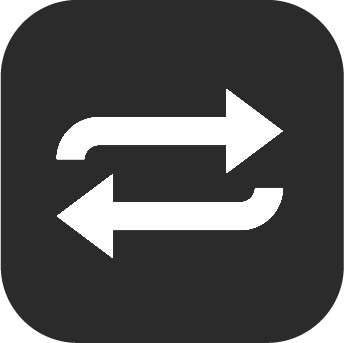
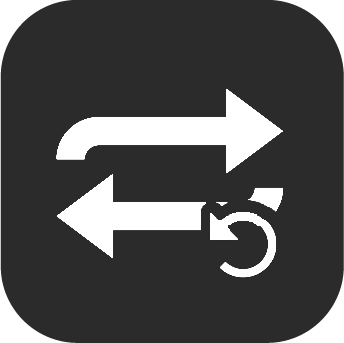
Improved track/playlist looping

Changed region(s): [[0.5814, 0.5831, 0.814, 0.8163]]

diff --git a/app/controls.js b/app/controls.js
@@ -8,7 +8,7 @@ function handleButton(id) {
 
 }
 
-window.addEventListener("playerbtnclick", function(data) {
+window.addEventListener("playerbtnclick", data => {
 
 	// alert("Pressed button: " + id);
 
@@ -39,13 +39,24 @@ window.addEventListener("playerbtnclick", function(data) {
       modal("playlist");
     break;
 
+    case "loop":
+
+      var loopButton = document.getElementById("loop");
+      loopState = ++loopState % 3;
+
+      switch (loopState) {
+        case 0: loopButton.src = "images/noloop.png"; break;
+        case 1: loopButton.src = "images/loop.png"; break;
+        case 2: loopButton.src = "images/loopone.png"; break;
+      }
+    break;
+
     case "shuffle":
       shuffle();
       displayPlaylist();
 
 		default:
 		break;
-		// TODO: add logic for shuffle
 	}
 });
 
@@ -116,36 +127,36 @@ function displayMetadata(songData) {
     document.getElementById("cover").innerHTML = "<div id='cover'></div>";
 }
 
-document.body.addEventListener('dragover', function(event) {
-    event.preventDefault();
+document.body.addEventListener('dragover', e => {
+    e.preventDefault();
 });
 
-document.body.addEventListener('dragleave', function() {
+document.body.addEventListener('dragleave', () => {
 });
 
-document.body.addEventListener('drop', async function(event) {
-	event.preventDefault();
+document.body.addEventListener('drop', async e => {
+	e.preventDefault();
 
-	var files = event.dataTransfer.files;
+	var files = e.dataTransfer.files;
 
 
-    for (let i = 0; i < files.length; i++) {
-      var f = files[i];
-      console.log(`${f.name} (${f.type}) ${f.size} B`);
+  for (let i = 0; i < files.length; i++) {
+    var f = files[i];
+    console.log(`${f.name} (${f.type}) ${f.size} B`);
 
-      if (f.type.startsWith("audio")) {
+    if (f.type.startsWith("audio")) {
       var songData = await generateSongData(f);
 
       addToPlaylist(songData);        
-      }
-
-
     }
 
-    console.log(playlist)
+
+  }
+
+  console.log(playlist)
     
-    if (!player.getAttribute("initialized"))
-      startPlaylist();
+  if (!player.getAttribute("initialized"))
+    startPlaylist();
 
 });
 

diff --git a/app/playlist.js b/app/playlist.js
@@ -1,12 +1,13 @@
 var playlist = [];
 var playlistIndex = 0;
 
-var playMode = 1; // Should the played item be deleted from playlist of left?
-var alignMode = 1; // Should new items be added to the front or back of the playlist?
+var loopState = 0; // 0 - no loop, 1 - loop playlist, 2 - loop single song
+
+var alignMode = true; // Should new items be added to the front or back of the playlist?
 
 function addToPlaylist(item) {
 
-    if (alignMode == 1)
+    if (alignMode == true)
         playlist.push(item);
     else
         playlist = playlist.concat(item);
@@ -18,13 +19,23 @@ function removeFromPlaylist(index) {
 
 player.onended = () => {
 
-    if (playMode == 0) removeFromPlaylist(playlistIndex)
-    else playlistIndex++;
+    console.log(loopState)
 
-    if (playlistIndex < playlist.length) {
-        displayMetadata(playlist[playlistIndex])
-        playAudio(playlistIndex);        
+    if (loopState != 2) {
+
+        if (playlistIndex < playlist.length) {
+            playlistIndex++;
+    
+        }
+        else {
+
+            if (loopState == 1) playlistIndex = 0;
+
+        }
     }
+
+    displayMetadata(playlist[playlistIndex])
+    playAudio(playlistIndex);   
 
 }
 
@@ -50,5 +61,9 @@ function shuffle() {
       const j = Math.floor(Math.random() * (i + 1));
       [playlist[i], playlist[j]] = [playlist[j], playlist[i]];
     }
-  }
+}
+
+function swapItems(i, j) {
+    [playlist[i], playlist[j]] = [playlist[j], playlist[i]];
+}
   

diff --git a/app/index.html b/app/index.html
@@ -53,7 +53,7 @@
       </div>
 
       <div id="player-btn-container">
-        <img src="images/loop.png"     class="button player-button" id="loop" onclick="handleButton(this.id)">
+        <img src="images/noloop.png"     class="button player-button" id="loop" onclick="handleButton(this.id)">
         <img src="images/backward.png" class="button player-button" id="prev" onclick="handleButton(this.id)">
         <img src="images/play.png"     class="button player-button" id="play" onclick="handleButton(this.id)">
         <img src="images/forward.png"  class="button player-button" id="next" onclick="handleButton(this.id)">
